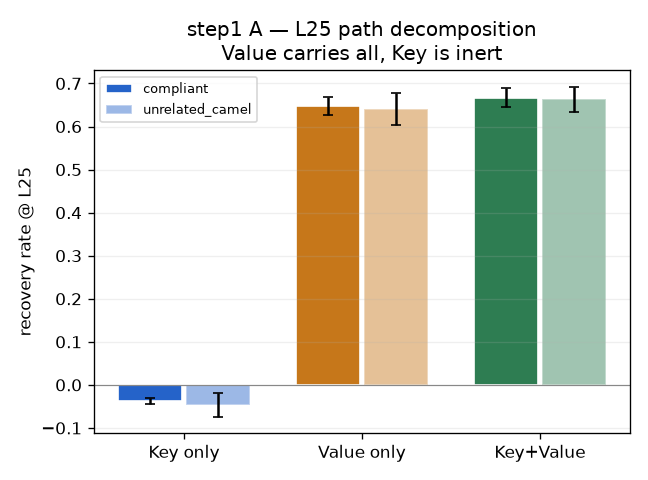
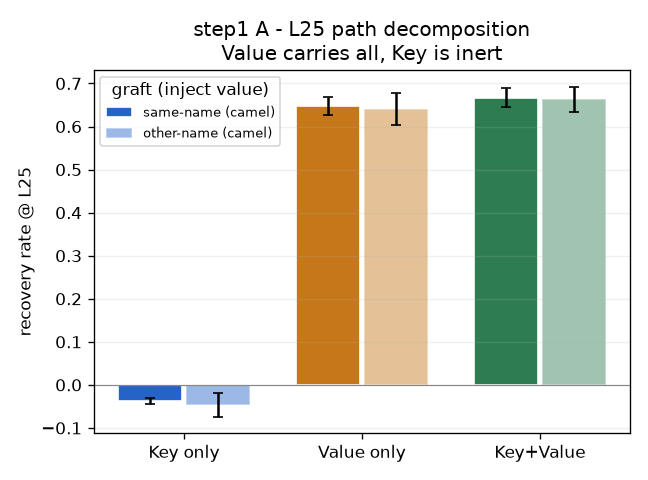
step1 docs: 용어 정리(이식값)·한자 제거·개념 구분 + qna Q3·Q4
- results.md: "donor"→"이식값"(graft), "死"→"무반응", "내용/형태" 혼동
  해소(축1 의미 vs 형태 / 축2 Key vs Value 분리 명시), 그림 라벨도
  graft로 재생성.
- qna.md: Q3(형태 vs Value 모순 해소), Q4(‖v‖·‖av‖ 관측과 step1
  회복률·코사인의 관계 = 관측→인과, 크기→방향) 추가.

Claude-Session: https://claude.ai/code/session_015VULnGt3VVvY5q4ePUrJie

Changed region(s): [[0.1543, 0.1562, 0.4321, 0.3125], [0.2778, 0.0312, 0.8333, 0.0938]]

diff --git a/docs/step1/results.md b/docs/step1/results.md
@@ -1,10 +1,13 @@
 # step 1 결과 — RQ2 층 스윕 + K/V 분해 (1차 실행)
 
-**대응 RQ:** RQ2 — 표기 형태를 매개하는 신호가 **어느 층**인가, **어느 경로(Key/Value)**인가, 그리고 그것이 **내용인가 형태인가·크기인가 방향인가**.
+**대응 RQ:** RQ2 — 표기 형태를 매개하는 신호가 **어느 층**인가, **어느 경로(Key/Value)**인가, 그리고 그것이 **의미인가 형태인가·크기인가 방향인가**.
 
 **설정.** `Qwen/Qwen2.5-Coder-3B-Instruct` (fp16, **36층**, GQA `num_attention_heads=16 / num_key_value_heads=2 / head_dim=128`, group 8). 지침=positive·camel·weak, 선행 = **전부 위반**(POOL n=0, snake 12개). L25 상대 위치 = 25/35 = **0.714**(후반).
 
-- **개입(A):** 30개 결과 중 스윕 20개 = donor 2종(compliant·unrelated_camel) × 10 seed. 각 조건이 **전 36층 × {Key만/Value만/Key+Value}**에서 세 상태 S와 회복률.
+- **개입(A):** 30개 결과 중 스윕 20개 = **이식값 2종** × 10 seed. 각 조건이 **전 36층 × {Key만/Value만/Key+Value}**에서 세 상태 S와 회복률.
+  - **이식값**(graft) = L25에서 위반 이름의 Value를 *무엇으로* 덮어쓰느냐, 그 재료. 두 종류:
+    - `compliant` = **같은이름-camel** (위반 `format_matrix`의 같은 단어 camel판 `formatMatrix`)
+    - `unrelated_camel` = **다른이름-camel** (위반과 무관한 단어의 camel판, 예 `parseHeader`)
 - **관측(B):** 코사인 10개 = 10 seed. 같은 이름의 camel판 v와 snake판 v의 층별 코사인.
 
 > **실행 전 예측:** 회복률 피크는 후반부(≈L25, 상대 0.6~0.75)에 국소화. compliant와 unrelated_camel 곡선은 전 층에서 겹침(형태 결론 유지). Value 단독 회복이 유의하면 축 B 성립. v 코사인은 피크 층 부근에서 하락 → Value 회복률 피크와 같은 층이면 축 B 확정.
@@ -17,7 +20,7 @@
 
 ### 1a. 층 국소화 — L25 단일 스파이크
 
-회복률이 **오직 L25에서만** 튀고 나머지 전 층은 ≈0.00이다. (donor=compliant, 대표 층)
+회복률이 **오직 L25에서만** 튀고 나머지 전 층은 ≈0.00이다. (이식값=같은이름-camel, 대표 층)
 
 | kind | L20 | L24 | **L25** | L26 | L30 | L35 |
 |---|---|---|---|---|---|---|
@@ -29,11 +32,11 @@
 
 stepC가 고른 L25가 우연이 아니었다. **전 층 스윕이 L25를 유일 피크로 확정**한다. 리뷰어의 "왜 25층?"에 곡선으로 답한다. 피크가 후반부(0.71)라는 것은 "표기 형태 결정이 출력에 가까운 단계에서 굳는다"는 해석과 맞물린다(계획서 §2.5 → step 8 로짓 렌즈).
 
-### 1b. K/V 분해 — Value가 전부, Key는 死 (핵심)
+### 1b. K/V 분해 — Value가 전부, Key는 무반응 (핵심)
 
 L25에서 경로별 회복률(10 seed 평균 ± std):
 
-| kind | compliant | unrelated_camel |
+| kind | 같은이름-camel | 다른이름-camel |
 |---|---|---|
 | **Value 단독** | **+0.648** ± 0.021 | +0.640 ± 0.02 |
 | Key+Value | +0.667 ± 0.022 | +0.663 ± 0.02 |
@@ -42,12 +45,12 @@ L25에서 경로별 회복률(10 seed 평균 ± std):
 ![L25 경로 분해](figs/kv_split_L25.png)
 
 - 회복은 **전부 Value가 진다.** Key+Value가 Value 단독보다 겨우 **+0.019** 크다 → Key의 추가 기여는 사실상 없다.
-- **Key 단독은 死** — 전 층에서 0에 붙어 있고(피크조차 L34 +0.02), L25에서는 오히려 미세 음수(−0.04).
+- **Key 단독은 무반응** — 전 층에서 0에 붙어 있고(피크조차 L34 +0.02), L25에서는 오히려 미세 음수(−0.04).
 - → 표기 형태 신호는 **Value 경로**(토큰이 실어 나르는 내용)에 있다. 어텐션 라우팅(Key)이 아니다.
 
-### 1c. 형태 vs 내용 — donor 통제 통과
+### 1c. 형태 vs 의미 — 이식값 통제 통과
 
-`compliant`(같은 이름 준수판)와 `unrelated_camel`(무관 준수형) 두 곡선이 **사실상 동일**하다: Key+Value 곡선의 **평균 절대차 0.001, 최대 0.005**. 같은 이름일 필요가 없다 → 회복은 내용이 아니라 **camel 형태 그 자체**가 낸다. 이 결론이 L25만이 아니라 전 층에서 유지된다.
+**같은이름-camel**(`formatMatrix`)과 **다른이름-camel**(`parseHeader` 등, 의미가 전혀 다름) 두 곡선이 **사실상 동일**하다: Key+Value 곡선의 **평균 절대차 0.001, 최대 0.005**. 의미가 완전히 틀린 이름을 이식해도 회복이 같다 → 회복을 내는 실효 성분은 이름의 **의미가 아니라 camel 형태 그 자체**다. 이 결론이 L25만이 아니라 전 층에서 유지된다.
 
 ### 1d. v 코사인 궤적 — L25 국소 딥 (축 B 방향)
 
@@ -65,7 +68,7 @@ L25에서 경로별 회복률(10 seed 평균 ± std):
 
 ## 2. Q/K/V — Key와 Value는 무엇이 다른가
 
-이 실험의 핵심이 "Key는 死, Value가 전부"이므로, 세 벡터의 역할을 짚어둔다.
+이 실험의 핵심이 "Key는 무반응, Value가 전부"이므로, 세 벡터의 역할을 짚어둔다.
 
 어텐션 층에서 각 토큰은 세 벡터를 만든다. 지금 **이름을 생성하려는 위치**(query 토큰)가 **선행 코드의 위반 이름 토큰들**(key/value를 가진 토큰)을 참조하는 상황이다.
 
@@ -75,14 +78,20 @@ L25에서 경로별 회복률(10 seed 평균 ± std):
 | **K (Key)** | 각 참조 토큰이 **자신을 어떻게 광고하는지**의 색인 | 책들의 색인표 | Q·K 내적이 **어텐션 가중치**를 정한다 = "어느 토큰을 볼지" (**라우팅**) |
 | **V (Value)** | 각 참조 토큰이 **실제로 실어 나르는 내용** | 색인이 가리키는 책의 본문 | 어텐션 가중치로 가중합돼 잔차 스트림에 더해진다 = "무엇을 읽을지" (**내용**) |
 
-핵심 공식(개념): `출력 = Σ_j softmax(Q·K_j) · V_j`. **K는 얼마나 볼지(가중치)를, V는 무엇을 읽을지(내용)를** 결정한다.
+핵심 공식(개념): `출력 = Σ_j softmax(Q·K_j) · V_j`. **K는 얼마나 볼지(가중치)를, V는 무엇을 읽을지(운반물)를** 결정한다.
+
+> **용어 주의 — "내용"이 두 뜻으로 쓰인다(혼동 지점).** 축을 분리한다.
+> - **축 1 (신호가 *무엇*인가):** 이름의 **의미(semantics)** vs **표기 형태(notation)**. → §1c가 답: **형태**.
+> - **축 2 (신호가 *어느 통로*인가):** **Key**(라우팅) vs **Value**(운반물). → §1b가 답: **Value**.
+>
+> "Value = 내용"의 '내용'은 **축 2의 "어텐션이 나르는 운반물"**이지, 축 1의 "코드 의미"가 아니다. 두 결론("신호는 형태다" + "그 신호는 Value 통로로 흐른다")은 층위가 달라 충돌하지 않는다. Value 벡터 안엔 의미·형태가 같이 실리지만(코사인 96% 공유=의미, 4% 차=형태), **표기 결정이 읽어가는 실효 성분은 형태뿐**이다(§1c의 이식값 통제가 증명 — 의미 틀린 이름을 이식해도 회복 동일).
 
 **그래서 이 실험의 치환이 무엇을 검증하나:**
 
-- **Key만 치환** = 위반 이름의 **색인(K)**을 준수판 색인으로 바꾼다. 어텐션 라우팅은 준수판처럼 재조정되지만, 정작 읽히는 **내용(V)은 위반 그대로**. → 회복 안 됨(−0.04). "어디를 볼지"를 바꿔도 결정은 안 바뀐다.
-- **Value만 치환** = 색인(K)은 위반 그대로 두어 어텐션 라우팅은 안 건드리고, **읽히는 내용(V)만** 준수판으로 바꾼다. → 회복(+0.65). "무엇을 읽을지"를 바꾸면 결정이 바뀐다.
+- **Key만 치환** = 위반 이름의 **색인(K)**을 준수판 색인으로 바꾼다. 어텐션 라우팅은 준수판처럼 재조정되지만, 정작 읽히는 **운반물(V)은 위반 그대로**. → 회복 안 됨(−0.04). "어디를 볼지"를 바꿔도 결정은 안 바뀐다.
+- **Value만 치환** = 색인(K)은 위반 그대로 두어 어텐션 라우팅은 안 건드리고, **읽히는 운반물(V)만** 준수판으로 바꾼다. → 회복(+0.65). "무엇을 읽을지"를 바꾸면 결정이 바뀐다.
 
-**stepB와의 관계 — 증상과 원인의 분리.** stepB는 "생성 위치가 위반 형태 토큰을 **더 본다**"(어텐션 가중치 1.18배 = 축 A, K 쪽 현상)를 관측했다. 그런데 step1은 그 **K를 준수판으로 바꿔도 결정은 안 바뀌고**, **V(내용)를 바꿔야 바뀐다**고 말한다. 즉 stepB가 본 어텐션 증가는 **증상(correlate)**이고, 표기를 실제로 뒤집는 **인과 레버는 Value가 실어 나르는 형태 내용**이다. 관측(축 A) → 인과(축 B)로 초점이 정확히 이동했다. 이 dissociation이 step1의 가장 중요한 기여다.
+**stepB와의 관계 — 증상과 원인의 분리.** stepB는 "생성 위치가 위반 형태 토큰을 **더 본다**"(어텐션 가중치 1.18배 = 축 A, K 쪽 현상)를 관측했다. 그런데 step1은 그 **K를 준수판으로 바꿔도 결정은 안 바뀌고**, **V(운반물)를 바꿔야 바뀐다**고 말한다. 즉 stepB가 본 어텐션 증가는 **증상(correlate)**이고, 표기를 실제로 뒤집는 **인과 레버는 Value가 실어 나르는 형태 성분**이다. 관측(축 A) → 인과(축 B)로 초점이 정확히 이동했다. 이 dissociation이 step1의 가장 중요한 기여다.
 
 > **주의(하네스 §3 GQA):** 이 모델은 KV head가 2개뿐이고 query head 16개가 8개씩 공유한다. 치환은 반드시 **KV group 단위**로 수행했다(캐시 `[B, n_kv=2, seq, d]`를 직접 편집). group을 무시하면 치환 정밀도가 깨진다.
 
@@ -93,14 +102,14 @@ L25에서 경로별 회복률(10 seed 평균 ± std):
 | 질문 | 답 | 근거 |
 |---|---|---|
 | 어느 층인가 | **L25 단일**, 후반(0.71), 날카로운 스파이크 | 1a — 타 층 전부 ≈0 |
-| 어느 경로인가 | **Value**. Key는 死 | 1b — Value 0.65 / Key −0.04 |
-| 내용인가 형태인가 | **형태** | 1c — donor 곡선 차 0.001 |
+| 어느 경로인가 | **Value**. Key는 무반응 | 1b — Value 0.65 / Key −0.04 |
+| 의미인가 형태인가 | **형태** | 1c — 이식값 곡선 차 0.001 |
 | 크기인가 방향인가 | **방향** (미세 성분) | 1d — L25 코사인 국소 딥 0.961 |
 
 **이 답들이 방법론(step 7) 설계를 못 박는다:**
 
 - 개입 지점 = **후반 단일 층(이 모델은 L25) × Value 경로**. Key 개입·어텐션 증폭은 불필요(효과 0).
-- 공여는 **형태 donor면 충분**(정확한 이름 불필요) → 스티어링 벡터를 형태만으로 구성 가능.
+- 이식값은 **아무 camel 형태면 충분**(정확한 이름 불필요) → 스티어링 벡터를 형태만으로 구성 가능.
 - 형태 신호가 **미세 방향 성분**이라는 점은 스티어링이 정밀해야 함을 뜻한다 → 크게 밀 필요 없이 그 성분만 조준.
 
 **다음 step:**
